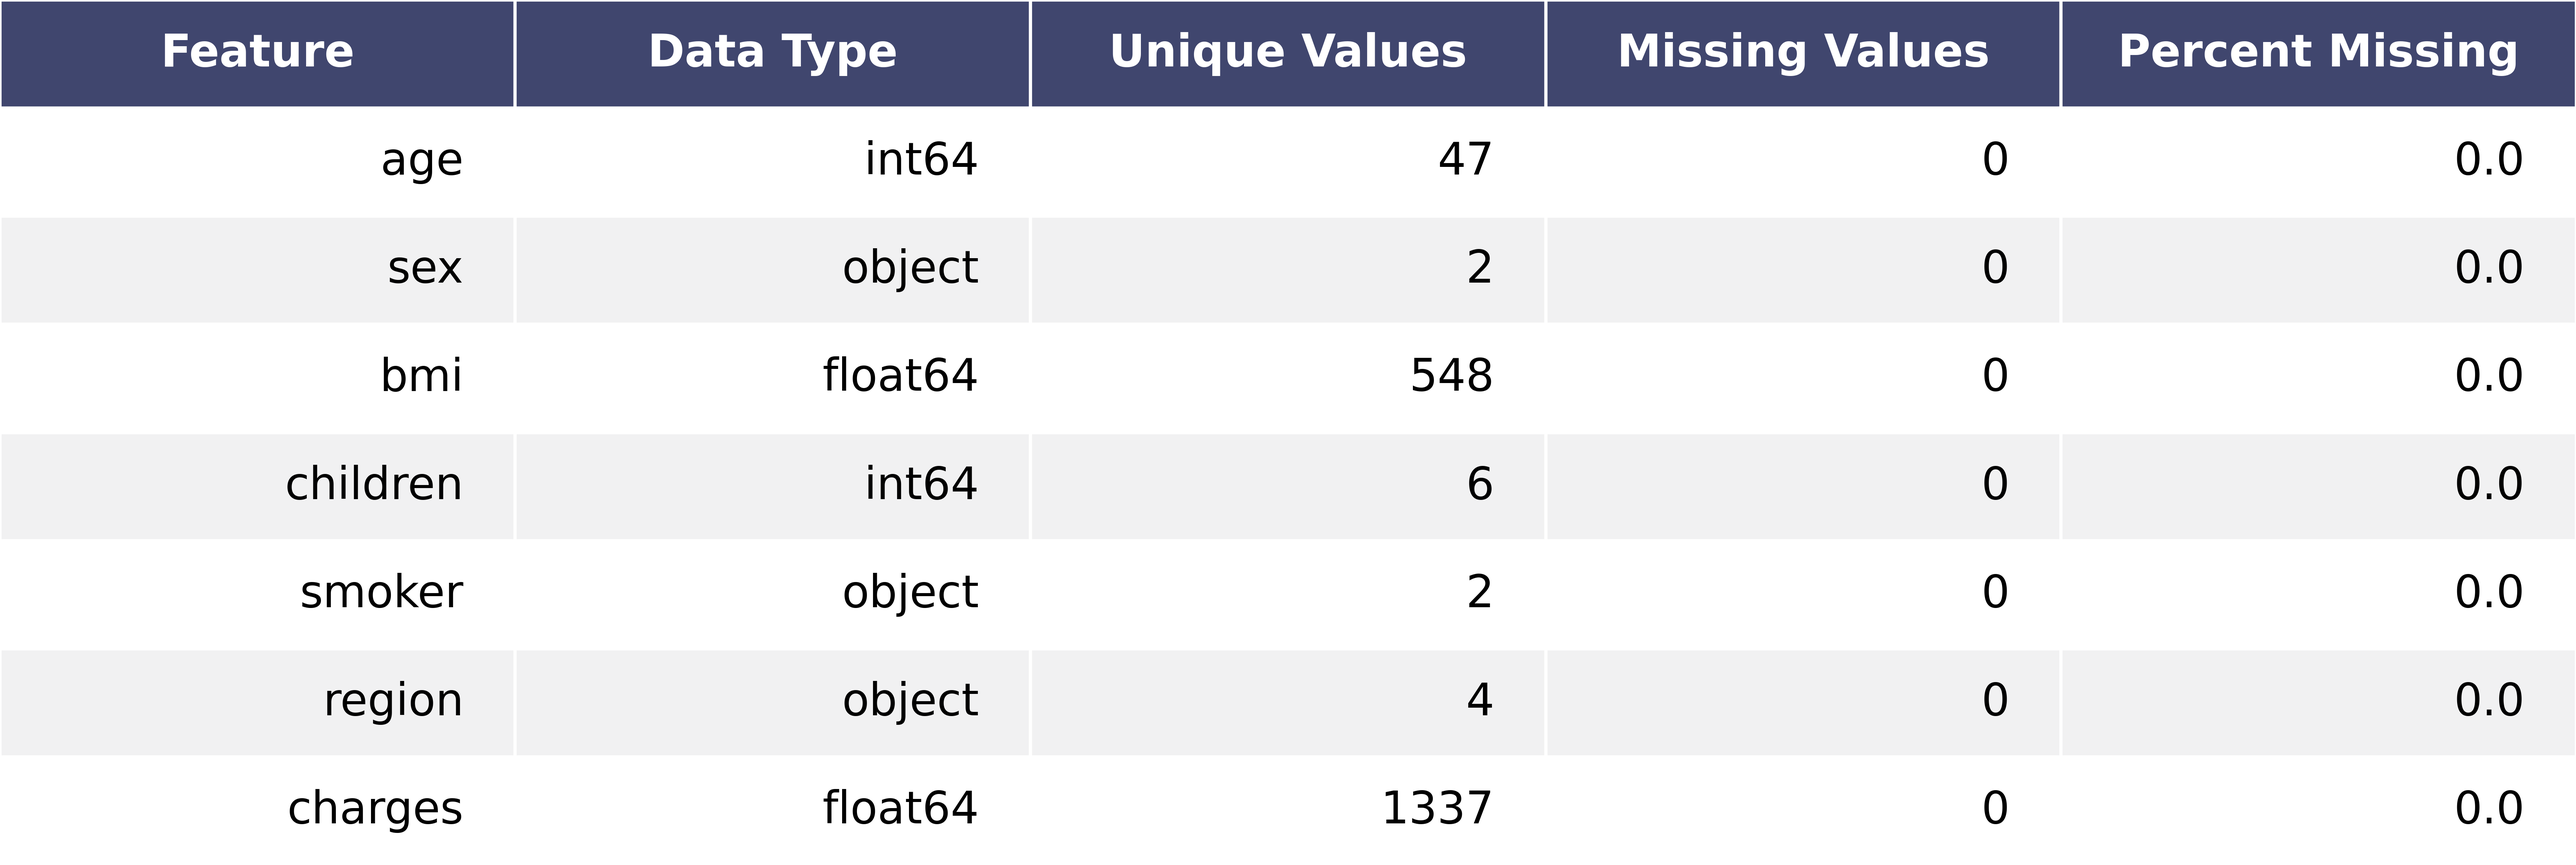
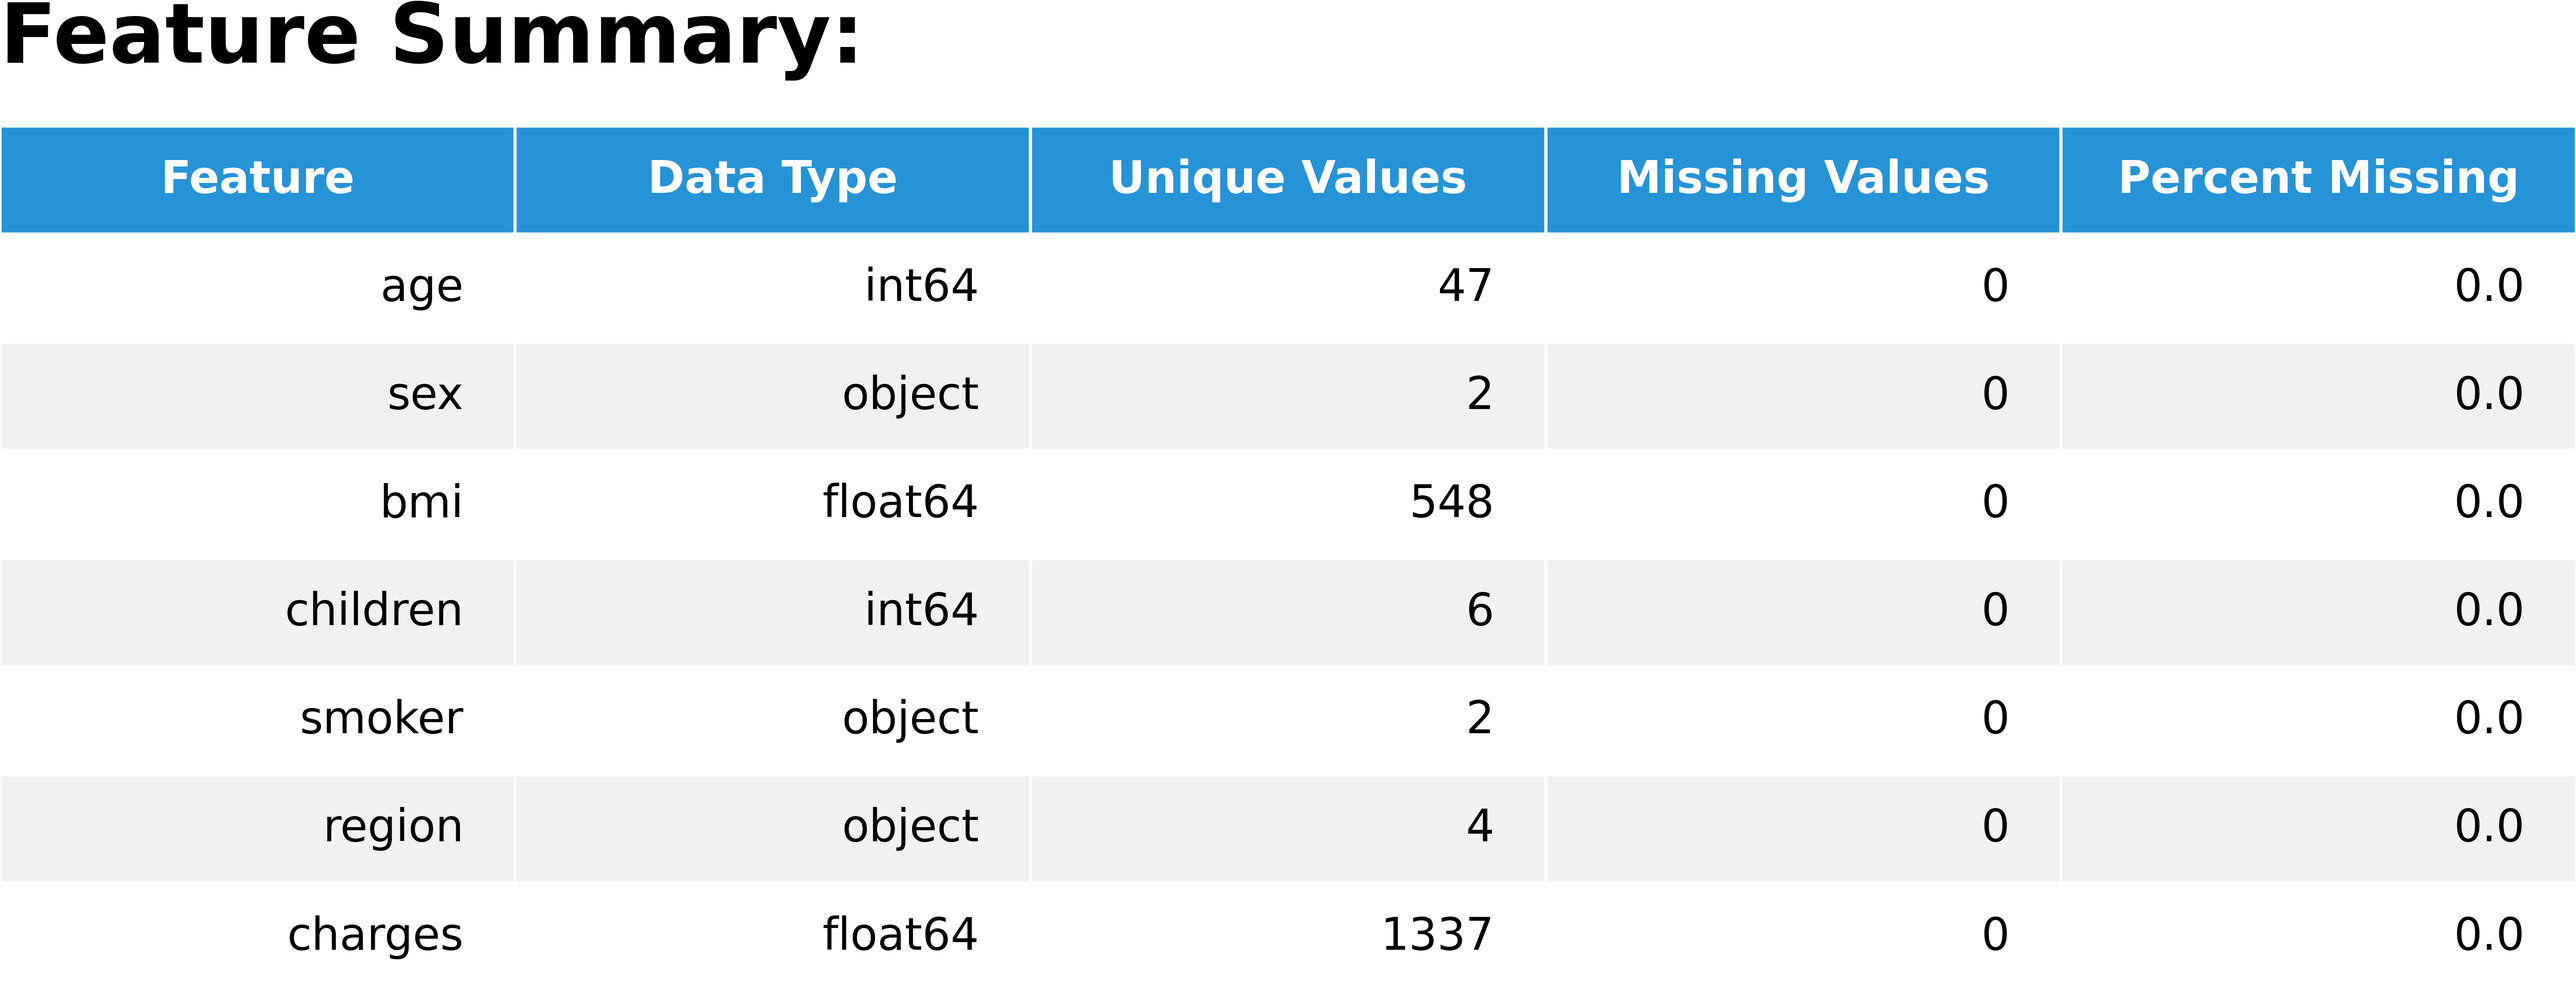
updated feature summary

diff --git a/cost_eda.py b/cost_eda.py
@@ -70,7 +70,9 @@ plt.show()
 # Image versions of feature_summary
 # Row indeces normally not includes, rather that rewrite the function, I made them the first column
 feature_summary.insert(0, 'Feature', feature_summary.index)
-dh.render_mpl_table(feature_summary, header_columns=0, col_width=2.9, header_color='#2693d7')
+
+ax = dh.render_mpl_table(feature_summary, header_columns=0, col_width=2.9, header_color='#2693d7')
+ax.set_title('Feature Summary:', fontdict={'fontsize':26}, loc='left', weight='bold', pad=20)
 #dh.save_image('feature_summary', eda_output_dir, dpi=600, bbox_inches='tight', pad_inches=0)
 plt.show()
 
